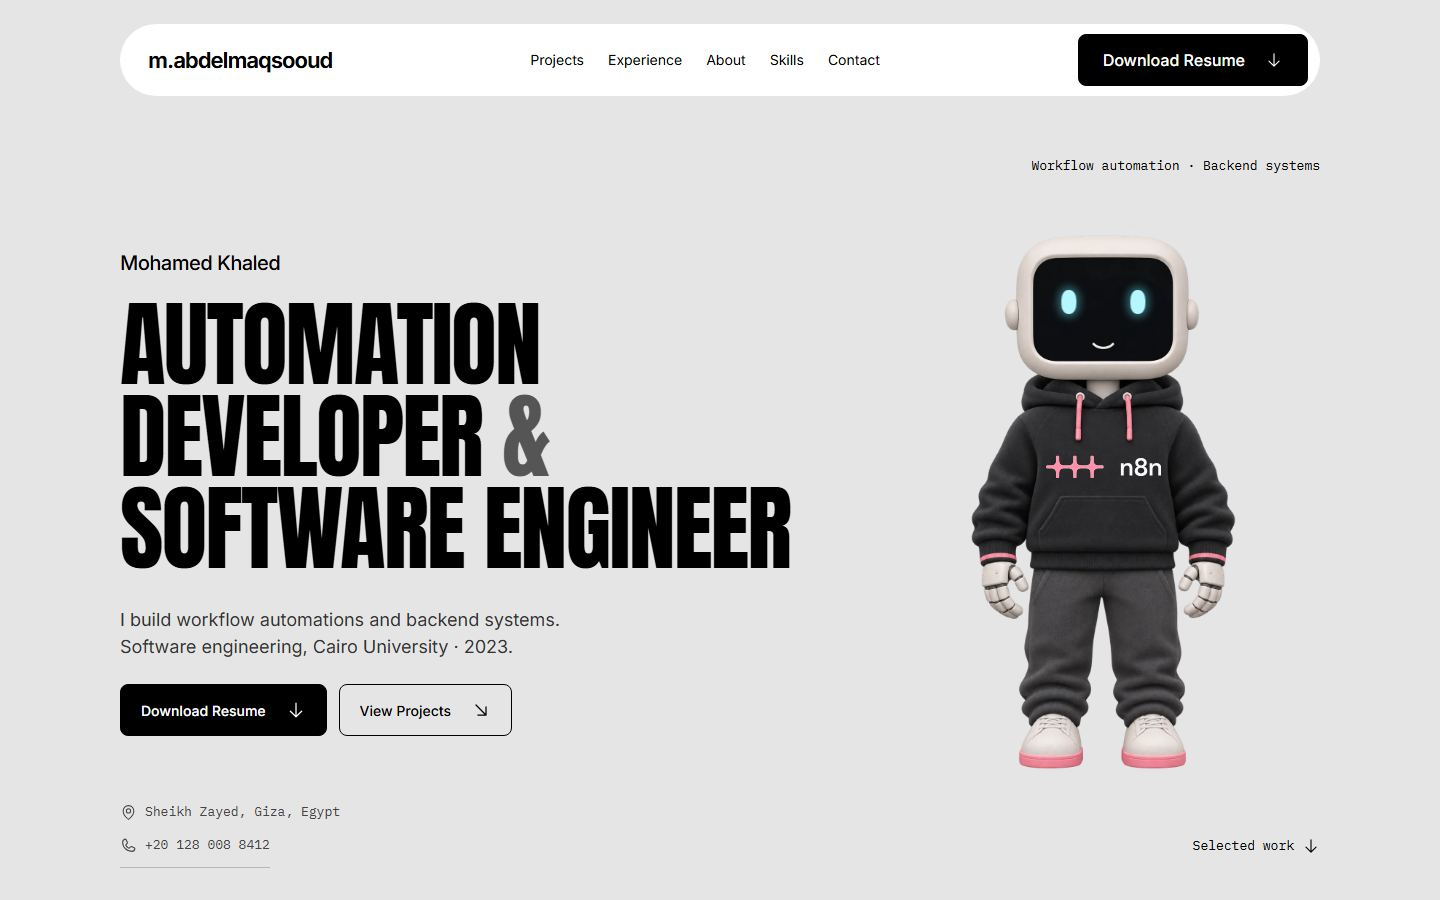
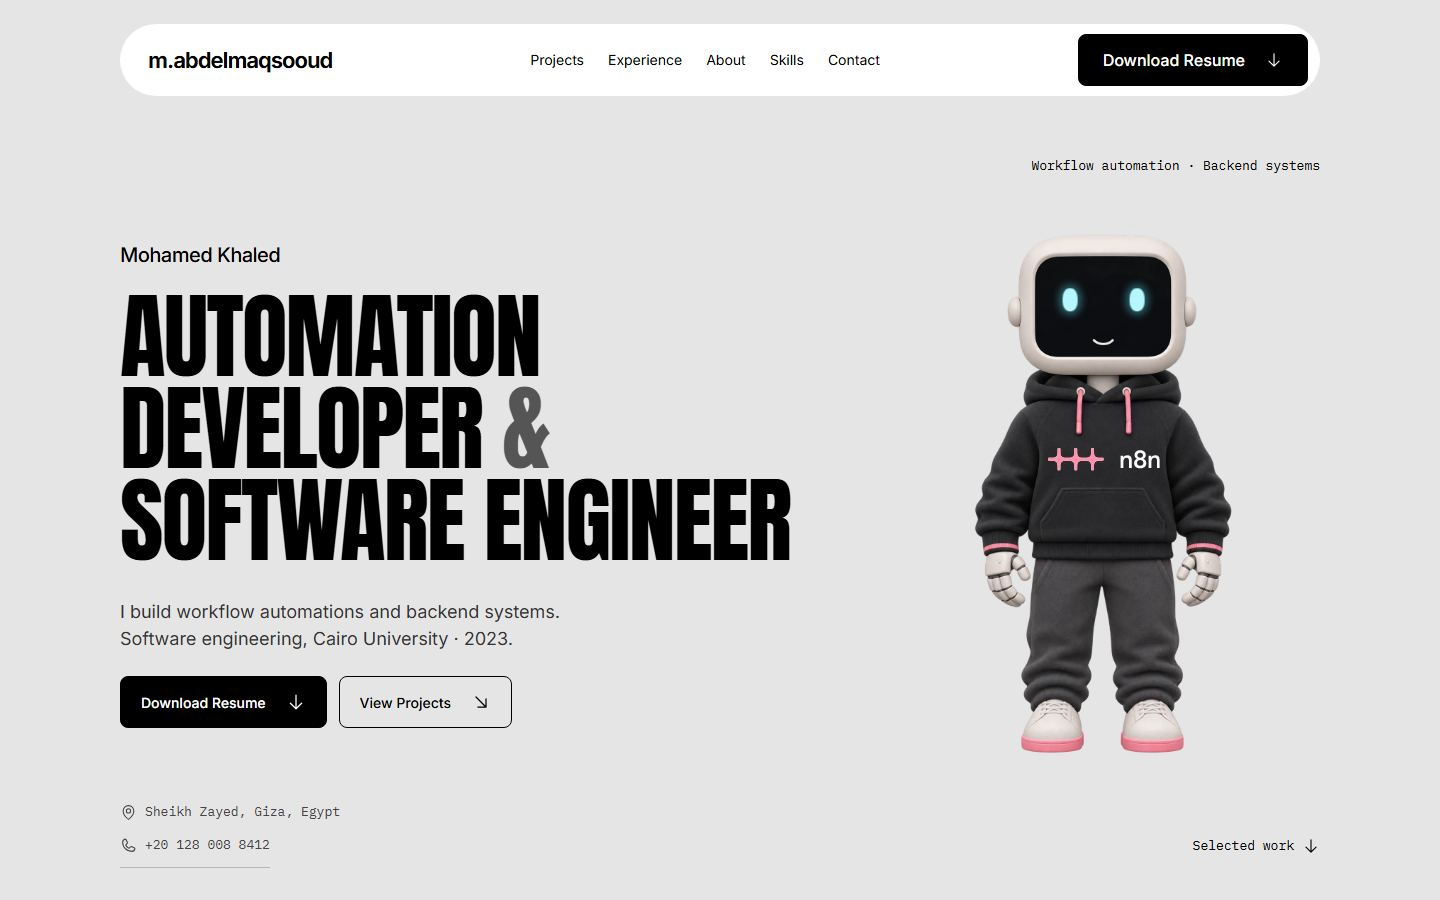
Keep hero buttons clear of contact details on short screens

diff --git a/src/app/globals.css b/src/app/globals.css
@@ -48,13 +48,13 @@ html.portfolio {
 .portfolio .mobile-navigation { display: none; }
 
 /* User-requested robot sits beside the editorial headline. */
-.portfolio .hero { height: 100svh; min-height: 700px; padding: 0; background: #e5e5e5; }
-.portfolio .hero-content { height: 100%; padding-top: 156px; padding-bottom: 32px; display: flex; flex-direction: column; gap: 0; }
-.portfolio .hero-composition { height: 100%; min-height: 0; display: flex; flex-direction: column; gap: 0; }
+.portfolio .hero { height: auto; min-height: 100svh; padding: 0; background: #e5e5e5; }
+.portfolio .hero-content { height: auto; min-height: 100svh; padding-top: 156px; padding-bottom: 32px; display: flex; flex-direction: column; gap: 0; }
+.portfolio .hero-composition { height: auto; min-height: 0; flex: 1; display: flex; flex-direction: column; gap: 0; }
 .portfolio .hero-intro { display: flex; justify-content: flex-end; align-items: center; margin-bottom: 32px; }
 .portfolio .hero-name { font-size: 20px; font-weight: 500; letter-spacing: -.025em; margin-bottom: 20px; }
 .portfolio .hero-discipline, .portfolio .hero-foot, .portfolio .period, .portfolio .section-index, .portfolio .item-number { font-family: 'IBM Plex Mono', monospace; font-size: 13px; line-height: 1.5; }
-.portfolio .hero-main { flex: 1; min-height: 0; display: grid; grid-template-columns: minmax(0, 1.7fr) minmax(0, 1fr); align-items: center; gap: 32px; }
+.portfolio .hero-main { flex: 1 0 auto; min-height: auto; display: grid; grid-template-columns: minmax(0, 1.7fr) minmax(0, 1fr); align-items: center; gap: 32px; }
 .portfolio .hero-copy-column { width: 100%; min-width: 0; display: flex; flex-direction: column; }
 .portfolio .hero h1 { font-size: clamp(48px, 6.5vw, 96px); line-height: .98; letter-spacing: -.018em; max-width: none; }
 .portfolio .hero h1 > span { display: block; }
@@ -63,7 +63,7 @@ html.portfolio {
 .portfolio .hero .btn-row { display: flex; width: auto; flex-wrap: wrap; }
 .portfolio .hero .btn { padding-inline: 20px; font-size: 14px; }
 .portfolio .hero__lead { max-width: 480px; font-size: 18px; line-height: 1.5; color: #333; }
-.portfolio .hero-foot { margin-top: auto; padding-top: 24px; display: flex; justify-content: space-between; align-items: flex-end; color: #444; }
+.portfolio .hero-foot { margin-top: 0; padding-top: 24px; flex-shrink: 0; display: flex; justify-content: space-between; align-items: flex-end; color: #444; }
 .portfolio .hero-foot p, .portfolio .scroll-link { display: inline-flex; align-items: center; gap: 8px; min-height: 44px; }
 .portfolio .hero-contact { display: flex; flex-direction: column; align-items: flex-start; }
 .portfolio .hero-contact p { min-height: 24px; }
@@ -71,7 +71,7 @@ html.portfolio {
 .portfolio .scroll-link { color: #000; }
 
 /* Preserve the 2:3 artwork canvas: overlay positions are percentages of it. */
-.portfolio .hero-mascot { position: relative; width: min(100%, 400px, calc((100svh - 340px) * .666667)); justify-self: center; }
+.portfolio .hero-mascot { position: relative; width: min(100%, 400px, calc((100svh - 356px) * .666667)); justify-self: center; }
 .portfolio .mascot-art { position: relative; width: 100%; aspect-ratio: 2 / 3; }
 .portfolio .mascot-body { display: block; width: 100%; height: 100%; }
 .portfolio .mascot-logo { position: absolute; width: 31%; height: auto; left: 50%; top: 45.5%; transform: translate(-50%, -50%); }
@@ -164,12 +164,14 @@ html.portfolio {
 .portfolio .socials a { display: flex; align-items: center; gap: 8px; min-height: 48px; width: auto; height: auto; border: 0; border-radius: 0; font-size: 16px; }
 
 @media (min-width: 1441px) { .portfolio .hero-content { padding-top: max(156px, 18svh); } }
+@media (min-width: 1024px) { .portfolio .hero-foot { padding-top: 40px; } }
 @media (min-width: 1024px) and (max-height: 800px) {
   html.portfolio { --t-h1: clamp(60px, 8.2vw, 112px); --t-h2: 52px; --padt: 112px; --padb: 48px; }
-  .portfolio .hero { min-height: 0; }
   .portfolio .hero-content { padding-top: 128px; padding-bottom: 16px; }
+  .portfolio .hero h1 { font-size: clamp(48px, min(6.5vw, 11svh), 96px); }
   .portfolio .hero-intro { margin-bottom: 24px; }
   .portfolio .hero-bottom { margin-top: 24px; }
+  .portfolio .hero-foot { padding-top: 32px; }
   .portfolio .section { padding-top: 112px; padding-bottom: 48px; }
   .portfolio main > section > .wrap.two-screens { grid-template-rows: 100svh 1fr; }
   .portfolio .section-heading { margin-bottom: 32px; }

diff --git a/.taste-skill/plan.md b/.taste-skill/plan.md
@@ -4,6 +4,8 @@ Client direction: warm-gray editorial palette, Anton + Inter + IBM Plex Mono, ed
 ## Screens at 1440 × 900
 
 - Hero: role, location, phone, résumé download, projects anchor; editorial type beside a generated clean-shaven robot with an official n8n logo. The lowercase navbar wordmark remains; the title-case personal name sits directly above the role headline with a 20px desktop / 16px phone gap. Desktop metadata stays aligned on the right; its empty row is removed on smaller screens. One desktop screen; phone content grows. User-requested changes on 15 November 2026 supersede the initial text-only hero.
+
+Desktop spacing update, 16 November 2026: preserve the hero content's intrinsic height and reserve 40px above the contact row (32px below 801px window height). Short desktop windows cap headline size at 11svh; when content still cannot fit, the hero grows beyond the viewport instead of overlapping the location or phone. Normal desktop views retain a full-screen hero. Phone typography and artwork remain unchanged.
 - Projects: HireHustle matching and commerce API; two distinct generated conceptual illustrations; 2 screens.
 - Experience: United Elite role details with the approved card-playing developer, then its approved sales/bank-comparison illustration on a separate row; 2 screens. Three logo cards and the bank cloud drift slowly; characters and form stay still.
 - Earlier experience: the SDN support role with its approved seated office developer showing PostgreSQL, Docker Swarm updates, and API logs; image-only replacement on 15 November 2026. Existing role text and layout are preserved. One desktop screen, growing with stacked content on smaller viewports.

diff --git a/AGENTS.md b/AGENTS.md
@@ -32,6 +32,8 @@ Keep the warm-gray palette, Anton headings, Inter body, IBM Plex Mono metadata, 
 
 Keep `m.abdelmaqsooud` lowercase; group the hero name immediately above the role headline.
 
+Reserve 32–40px above desktop hero contacts. Let the hero grow in short windows instead of shrinking content into the contact row.
+
 The hero robot blinks every two seconds and follows fine pointers; its pause button was removed. Experience artwork uses [SVG masks](assets/layers/experience-art.json): float only the three logo cards and bank cloud over 6.5–8 seconds. Keep figures, held cards, and form still. Preserve complete canvases. Honor reduced motion and suspend loops offscreen or in hidden tabs.
 
 Use native smooth scrolling for section links, with instant scrolling under reduced motion.
